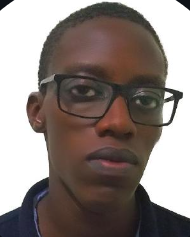
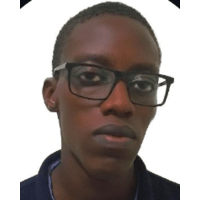
Resized the images and edited the teams content on the card

diff --git a/src/components/TeamName.js b/src/components/TeamName.js
@@ -78,8 +78,8 @@ const TeamName = () => {
                     <div className="item_in">
                       <img className="border_img size_img" src="/img/author/8.png" alt="" />
                       <p className="desc">Web3 Dev</p>
-                      <p className="desc">Atlantic City, NJ</p>
-                      <p className="desc">Retired Casino Dealer</p>
+                      <p className="desc">New Delhi, India</p>
+                      <p className="desc">BCA (Bachelor in Computer Applications)</p>
                     </div>
                   </div>
                 </SwiperSlide>
@@ -100,7 +100,7 @@ const TeamName = () => {
                     <span className="icon" />
                     <span className="phase">Wilson Y.</span>
                     <div className="item_in">
-                      <img className="border_img" src="/img/author/3.png" alt="" />
+                      <img className="border_img" src="/img/author/5.png" alt="" />
                       <p className="desc">Web3 Dev</p>
                       <p className="desc">Atlantic City, NJ</p>
                       <p className="desc">Retired Casino Dealer</p>
@@ -108,18 +108,19 @@ const TeamName = () => {
                   </div>
                 </SwiperSlide>
                 <SwiperSlide className="swiper-slide">
-                  <div className="item">
+                  <div className="item"> 
                     <span className="icon" />
                     <span className="phase">Jeff St L.</span>
                     <div className="item_in">
+                      <img className="border_img" src="/img/author/6.png" alt="" />
                       <p className="date">January 28, 2023</p>
-                      <h3 className="title">Mini Game Lounch For Community</h3>
-                      <p className="desc">
+                      <h3 className="title">Mini Game Launch For Community</h3>
+                      {/* <p className="desc">
                         Morbi non dignissim erat, a blandit felis. Suspendisse
                         nec lorem vel orci varius congue ut vitae est. Nam quis
                         tempus nisl. Fusce posuere nibh a mi molestie, sit amet
                         ornare lectus interdum.
-                      </p>
+                      </p> */}
                     </div>
                   </div>
                 </SwiperSlide>

diff --git a/public/css/style.css b/public/css/style.css
@@ -1837,9 +1837,6 @@ a.full_link {
 }
 
 
-
-
-
 .fn_cs_divider {
 	height: 16px;
 	position: relative;
@@ -6824,6 +6821,8 @@ a.metaportal_fn_videobutton:hover .fn__svg,
 }
 
 .fn_cs_roadmap .swiper-slide .item {
+	height: 15vw;
+	width: 15vw;
 	border: 1px solid rgba(255, 255, 255, .15);
 	border-radius: 10px;
 	box-shadow: 0px 5px 20px rgba(0, 0, 0, 0.25);
